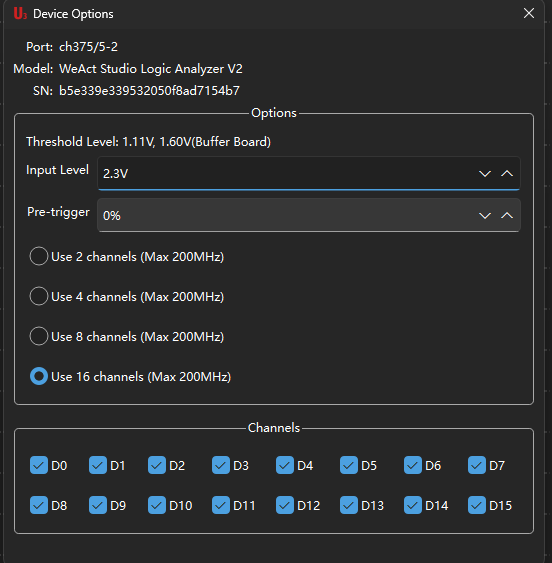
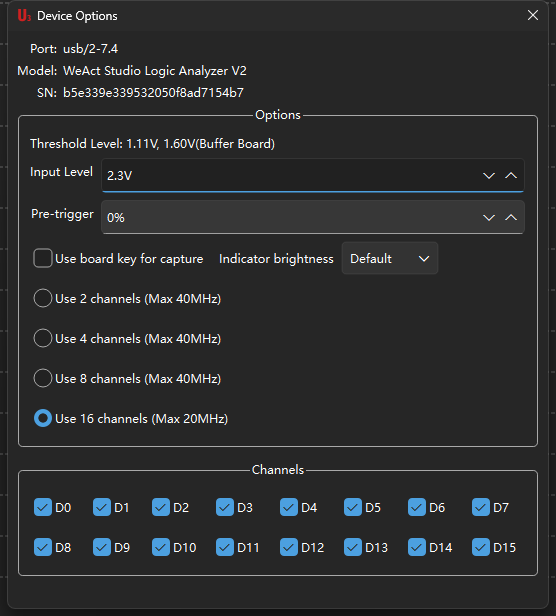
Refresh driver and device-option documentation
- Describe automatic WinUSB binding from firmware 0.2 and limit Zadig to older firmware and FX2 devices.
- Refresh both language device-option screenshots to show the board-key and brightness controls.
- Align README and usage wording with the driverless setup.

diff --git a/doc/usage.md b/doc/usage.md
@@ -26,7 +26,7 @@ The application scans for devices as soon as one is plugged in, and the device s
 - **Several devices**: the list holds one row per port. Each row offers "open in a new session", so every device can capture into a session of its own at the same time.
 - **Hot plug**: unplugging a capturing device leaves that page behind an offline mask, and no capture can be started there until the device is reconnected. Plugging or unplugging other devices during a capture does not affect the device being captured.
 
-On Windows the CH375DLL driver is the default. To use the libusb back end instead (or an FX2-based analyzer), rebind the device to WinUSB with Zadig first; see the README of the U3LogicAnalyzer repository.
+On Windows the CH375DLL driver is the default. From firmware version 0.2 (`sw=0x02` in the `0xAC` reply), the device carries a Microsoft OS descriptor, so a computer without the CH375 driver binds WinUSB automatically and no manual rebinding is needed. On a computer with the CH375 driver already installed, CH375DLL is still used and no change is necessary. Earlier firmware and FX2-based analyzers still need a WinUSB rebind with Zadig; see the README of the U3LogicAnalyzer repository.
 
 ## Device options
 
@@ -128,7 +128,7 @@ Help menu → **FW Update**.
 ## Troubleshooting
 
 **The device is not in the device list**
-- Windows: make sure no other program holds the device; the libusb back end requires a WinUSB rebind with Zadig first.
+- Windows: make sure no other program holds the device; firmware older than 0.2 and FX2-based devices need a WinUSB rebind with Zadig first.
 - Linux: `lsusb` lists the device but the application does not. This is a permission problem: run `sudo ./install_udev_rules.sh` and reconnect the device.
 
 **The capture stops at once with 0 samples**

diff --git a/doc/usage.zh_CN.md b/doc/usage.zh_CN.md
@@ -26,7 +26,7 @@
 - **多台设备**：下拉列表按端口列出每一台设备；每行右侧提供「在新会话中打开」，可为每台设备各开一个会话并同时采集。
 - **插拔**：拔掉正在采集的设备后，该页面显示离线遮罩，无法启动采集；重新插入后自动恢复。采集期间其他设备的插拔不影响正在采集的这台设备。
 
-Windows 上默认使用 CH375DLL 驱动。如需改用 libusb 后端（或使用 FX2 方案的设备），需先用 Zadig 将设备重新绑定到 WinUSB，详见 U3LogicAnalyzer 仓库的 README。
+Windows 上默认使用 CH375DLL 驱动。固件版本 0.2（上位机 `0xAC` 应答中 `sw=0x02`）起，设备自带 Microsoft OS 描述符，未安装 CH375 驱动的电脑会自动绑定 WinUSB，无需手动改绑。已安装 CH375 驱动的电脑仍走 CH375DLL，两者无需切换。使用更早版本的固件或 FX2 方案的设备时，仍需用 Zadig 改绑 WinUSB，详见 U3LogicAnalyzer 仓库的 README。
 
 ## 设备选项
 
@@ -128,7 +128,7 @@ Windows 上默认使用 CH375DLL 驱动。如需改用 libusb 后端（或使用
 ## 常见问题
 
 **设备列表中没有设备**
-- Windows：确认设备未被其他程序占用；使用 libusb 后端时需先用 Zadig 重新绑定 WinUSB。
+- Windows：确认设备未被其他程序占用；固件 0.2 之前的版本或 FX2 方案的设备，需先用 Zadig 重新绑定 WinUSB。
 - Linux：`lsusb` 能看到设备但软件中没有，属于权限问题，执行 `sudo ./install_udev_rules.sh` 后重新插拔。
 
 **采集启动后立即停止、采样数为 0**

diff --git a/README.md b/README.md
@@ -47,13 +47,15 @@ sudo ./install_udev_rules.sh      # open the device without root (once)
 | | Windows | Linux | macOS |
 |---|---|---|---|
 | `wch-ch32h417` (CH375DLL) | yes, the default binding | not built | not built |
-| `wch-ch32h417-libusb` (libusb) | yes, after rebinding to WinUSB with Zadig | yes | unverified |
+| `wch-ch32h417-libusb` (libusb) | automatic since firmware 0.2; Zadig for older firmware | yes | unverified |
 | `fx2lafw` (libusb, FX2 based analyzers) | yes, after rebinding to WinUSB with Zadig | yes | unverified |
 | Firmware upgrade (IAP) | either back end | libusb only | unverified |
 
-On Windows the device is bound to `CH375WDM.sys` by default, which is what the `wch-ch32h417`
-driver talks to; the libusb back end there needs a WinUSB rebind with Zadig first. Off Windows
-only the libusb back end exists. Of the two, Linux has been built and run; macOS has not been ported.
+On Windows the device is bound to `CH375WDM.sys` when the CH375 driver is installed, which is what
+the `wch-ch32h417` driver talks to. From firmware version 0.2 the device carries a Microsoft OS
+descriptor, so a computer without the CH375 driver binds WinUSB automatically. Older firmware and
+FX2-based analyzers still need a WinUSB rebind with Zadig. Off Windows only the libusb back end
+exists. Of the two, Linux has been built and run; macOS has not been ported.
 
 ## Layout
 

diff --git a/README_zh_CN.md b/README_zh_CN.md
@@ -45,12 +45,11 @@ English: [Usage](doc/usage.md) · [Building](doc/building.md)
 | | Windows | Linux | macOS |
 |---|---|---|---|
 | `wch-ch32h417`（CH375DLL） | 默认绑定 | 不参与构建 | 不参与构建 |
-| `wch-ch32h417-libusb`（libusb） | 需先用 Zadig 改绑 WinUSB | 支持 | 未验证 |
+| `wch-ch32h417-libusb`（libusb） | 固件 0.2 起自动绑定；旧固件需 Zadig | 支持 | 未验证 |
 | `fx2lafw`（libusb，FX2 方案设备） | 需先用 Zadig 改绑 WinUSB | 支持 | 未验证 |
 | 固件升级（IAP） | 两个后端都行 | 仅 libusb 后端 | 未验证 |
 
-Windows 上设备默认绑在 `CH375WDM.sys`（走 `wch-ch32h417` 驱动），想用 libusb 后端需先用
-Zadig 改绑 WinUSB。非 Windows 平台只有 libusb 后端，其中 Linux 已实机验证，macOS 未适配。
+Windows 上已安装 CH375 驱动时设备绑在 `CH375WDM.sys`，走 `wch-ch32h417` 驱动。固件 0.2 起设备自带 Microsoft OS 描述符，未安装 CH375 驱动的电脑会自动绑定 WinUSB，无需手动改绑；更早版本的固件或 FX2 方案设备仍需用 Zadig 改绑 WinUSB。非 Windows 平台只有 libusb 后端，其中 Linux 已实机验证，macOS 未适配。
 
 ## 目录结构
 
